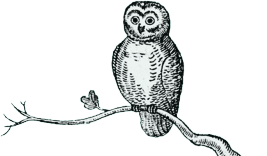
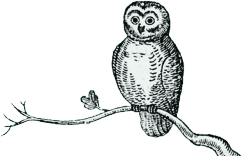
More rigourous owl tweak

Changed region(s): [[0.0, 0.0, 1.0, 1.0], [0.0, 0.8462, 0.0289, 0.8718]]

diff --git a/avari/style.css b/avari/style.css
@@ -948,7 +948,7 @@ object {
 	color: #f9f9f9;
 	background-image: url('images/masthead-owl.png');
 	background-repeat: no-repeat;
-	background-position: right bottom;
+	background-position: calc(100% - 1.5em) 100%;
 	max-width: 1300px;
 	margin-left: auto;
 	margin-right: auto;
